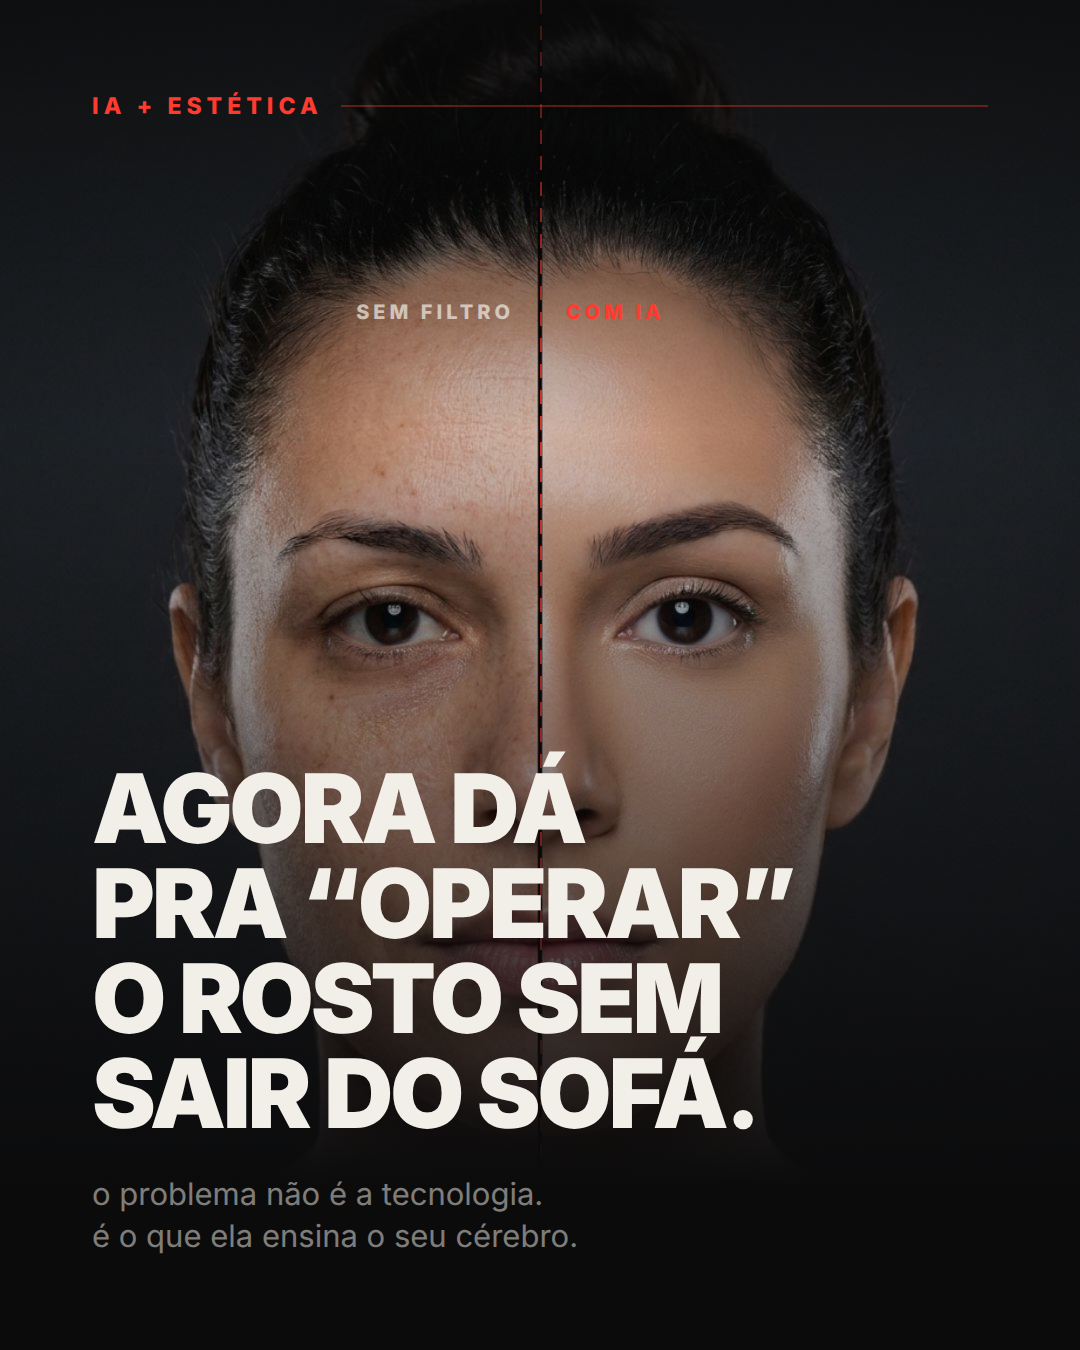
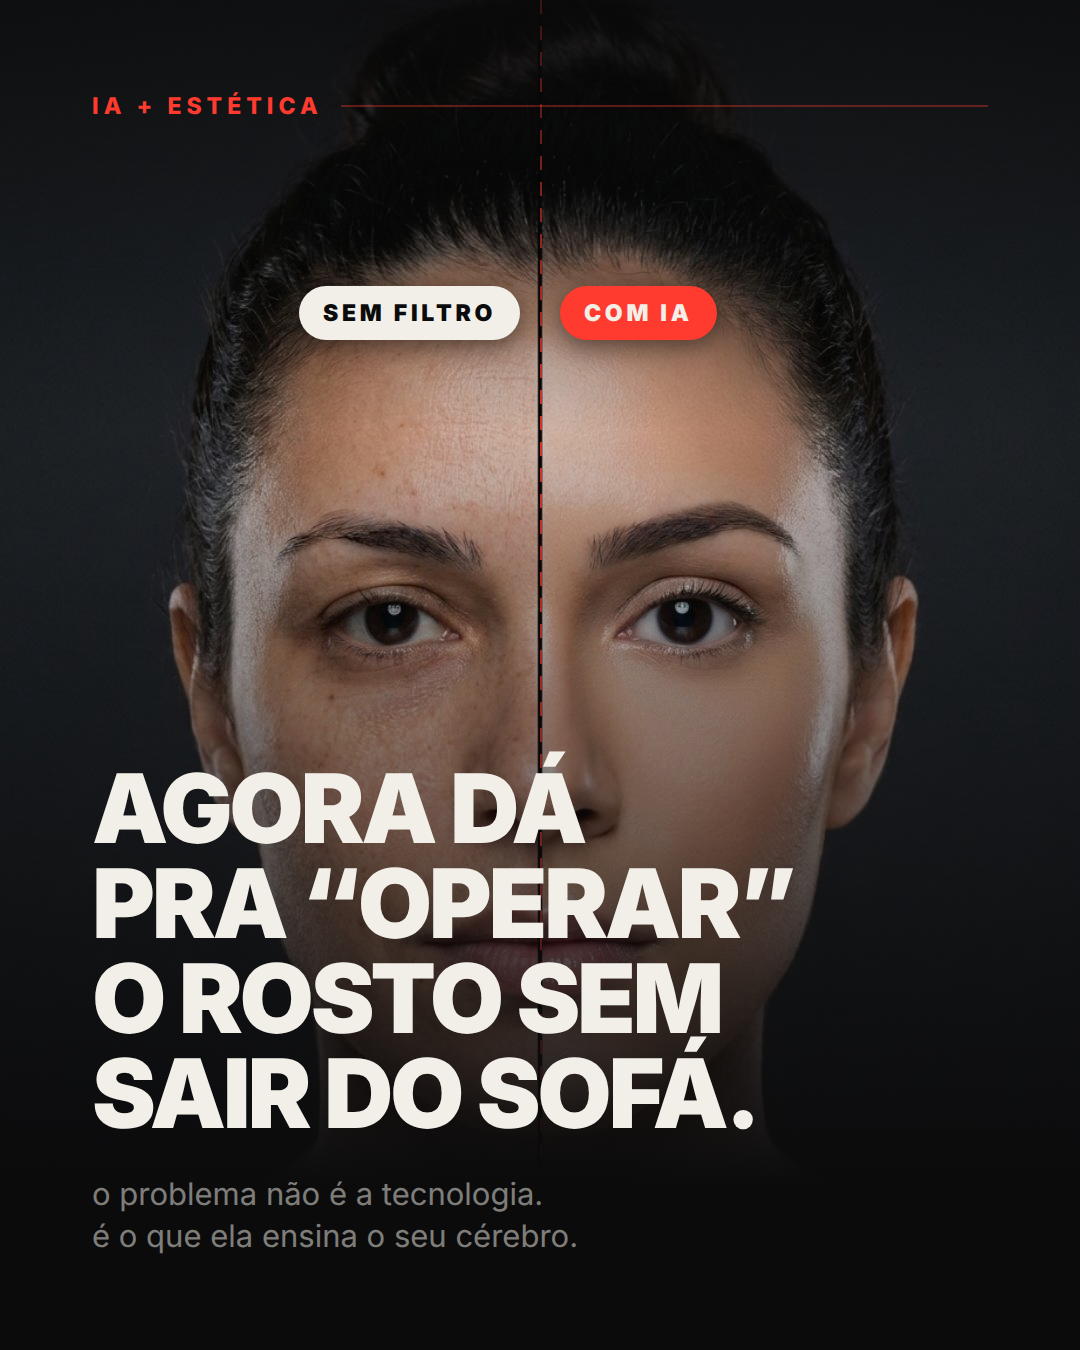
content: rotulos da capa ganham chip solido para ficarem legiveis
"SEM FILTRO" e "COM IA" eram texto solto sobre a testa e o cabelo da
modelo, e sumiam no fundo escuro. Agora cada um vem em chip arredondado
de fundo chapado — off-white com texto preto no lado cru, vermelho com
texto claro no lado retocado — com sombra para descolar da foto.

Fonte tambem sobe de 20 para 23px em peso 900.

Claude-Session: https://claude.ai/code/session_01QL9vhZZu3SsoqbmAEg7ciV

Changed region(s): [[0.275, 0.1867, 0.4889, 0.28], [0.5194, 0.1867, 0.6722, 0.28]]

diff --git a/content/slides-ia-embelezamento/_fonte/slides-fotos.html b/content/slides-ia-embelezamento/_fonte/slides-fotos.html
@@ -39,10 +39,11 @@ body{background:#555;font-family:'Inter',system-ui,sans-serif;-webkit-font-smoot
   background:linear-gradient(180deg,rgba(11,11,12,.82) 0%,rgba(11,11,12,.15) 32%,rgba(11,11,12,.55) 62%,#0B0B0C 88%)}
 .splitline{position:absolute;top:0;bottom:0;left:50%;width:2px;z-index:2;
   background:repeating-linear-gradient(180deg,var(--accent) 0 14px,transparent 14px 26px)}
-.halflabel{position:absolute;top:300px;z-index:3;font-size:20px;font-weight:800;
-  letter-spacing:.2em;text-transform:uppercase}
-.halflabel.l{right:calc(50% + 26px);color:rgba(242,239,233,.7)}
-.halflabel.r{left:calc(50% + 26px);color:var(--accent)}
+.halflabel{position:absolute;top:286px;z-index:3;font-size:23px;font-weight:900;
+  letter-spacing:.16em;text-transform:uppercase;padding:13px 24px;border-radius:100px;
+  box-shadow:0 6px 26px rgba(0,0,0,.5)}
+.halflabel.l{right:calc(50% + 20px);color:#0B0B0C;background:#F2EFE9}
+.halflabel.r{left:calc(50% + 20px);color:#F2EFE9;background:var(--accent)}
 .s1.photo h1{font-size:96px}
 .s1.photo .sub{margin-top:32px}
 /* painéis do slide 2 */
